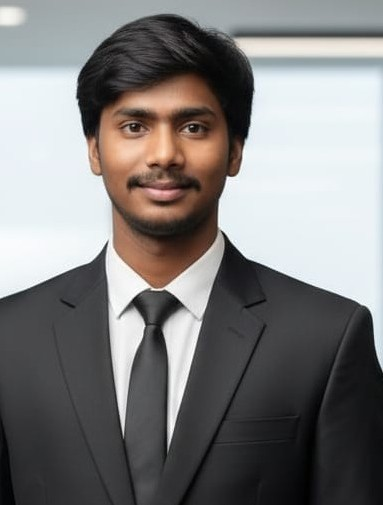
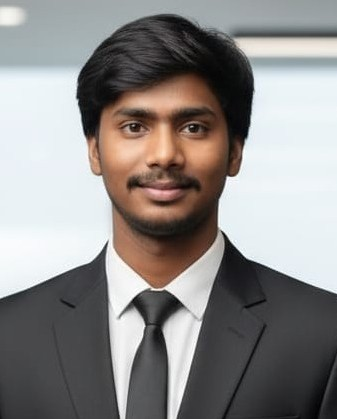
chore: clean up empty code change sections in the changes log

diff --git a/index.html b/index.html
@@ -159,6 +159,8 @@
               <div class="skill-item">Docker</div>
               <div class="skill-item">Kubernetes</div>
               <div class="skill-item">CI/CD Pipelines</div>
+              <div class="skill-item">Ansible</div>
+              <div class="skill-item">Terraform</div>
               <!-- <div class="skill-item">Infrastructure as Code</div> -->
               <div class="skill-item">Linux/Unix</div>
             </div>
@@ -175,6 +177,14 @@
               <!-- <div class="skill-item">JIRA</div> -->
             </div>
           </div>
+          <div class="skill-category">
+            <h3 class="skill-category-title">Primary Skills</h3>
+            <div class="skill-items">
+              <div class="skill-item">Embedded Systems</div>
+              <div class="skill-item">IOT</div>
+              <div class="skill-item">Arduino UNO</div>
+               <div class="skill-item">PCB Design</div>
+            
         </div>
       </div>
     </section>
@@ -284,6 +294,44 @@
               </div>
             </div>
           </div>
+
+          <!-- Project 3 -->
+          <div class="project-card">
+            <div class="project-image">
+              <i class="fas fa-heartbeat"></i>
+            </div>
+            <div class="project-content">
+              <h3 class="project-title">
+                Infrastructure as Code (laC) using Terraform on AWS
+              </h3>
+              <p class="project-description">
+                Infrastructure as Code (IaC) using Terraform on AWS is a DevOps
+                approach that automates the provisioning, configuration, and
+                management of cloud infrastructure through code instead of
+                manual processes. Terraform enables users to define AWS
+                resources such as VPCs, subnets, EC2 instances, load balancers,
+                security groups, S3 buckets, RDS databases, and more using
+                declarative configuration files written in HashiCorp
+                Configuration Language (HCL).
+              </p>
+              <div class="project-tech-stack">
+                <span class="tech-tag">AWS</span>
+                <span class="tech-tag">EC2</span>
+                <span class="tech-tag">S3</span>
+                <span class="tech-tag">VPC</span>
+                <span class="tech-tag">Terraform</span>
+                <span class="tech-tag">IaC</span>
+              </div>
+              <div class="project-links">
+                <a href="#" class="project-link">
+                  <i class="fab fa-github"></i> View Code
+                </a>
+                <a href="#" class="project-link">
+                  <i class="fas fa-external-link-alt"></i> Live Demo
+                </a>
+              </div>
+            </div>
+          </div>
         </div>
       </div>
     </section>
@@ -315,8 +363,19 @@
             <h3 class="certification-title">
               Printed Circuit Board Design (PCB) Internship
             </h3>
-            <p class="certification-org">Atharvo</p>
-            <a href="assects/atarvoo.jpg" class="certification-link"
+            <p class="certification-org">Blackbuck Engineering</p>
+            <a href="assects/Blackbuck Engineers.jpg" class="certification-link"
+              >View Certificate</a
+            >
+          </div>
+
+          <div class="certification-card">
+            <div class="certification-icon">
+              <i class="fas fa-certificate"></i>
+            </div>
+            <h3 class="certification-title">Python Programming Internship</h3>
+            <p class="certification-org">Mind Luster</p>
+            <a href="assects/Python.jpg" class="certification-link"
               >View Certificate</a
             >
           </div>

diff --git a/style.css b/style.css
@@ -211,10 +211,15 @@ section {
 }
 
 .hero-image {
-  flex: 1;
-  display: flex;
-  justify-content: center;
-  border-radius: 10;
+  width: 300px;
+  height: 300px;
+  border-radius: 50%;
+  overflow: hidden;
+}
+.hero-image img {
+  width: 100%;
+  height: 100%;
+  object-fit: cover;
 }
 
 .image-placeholder {
